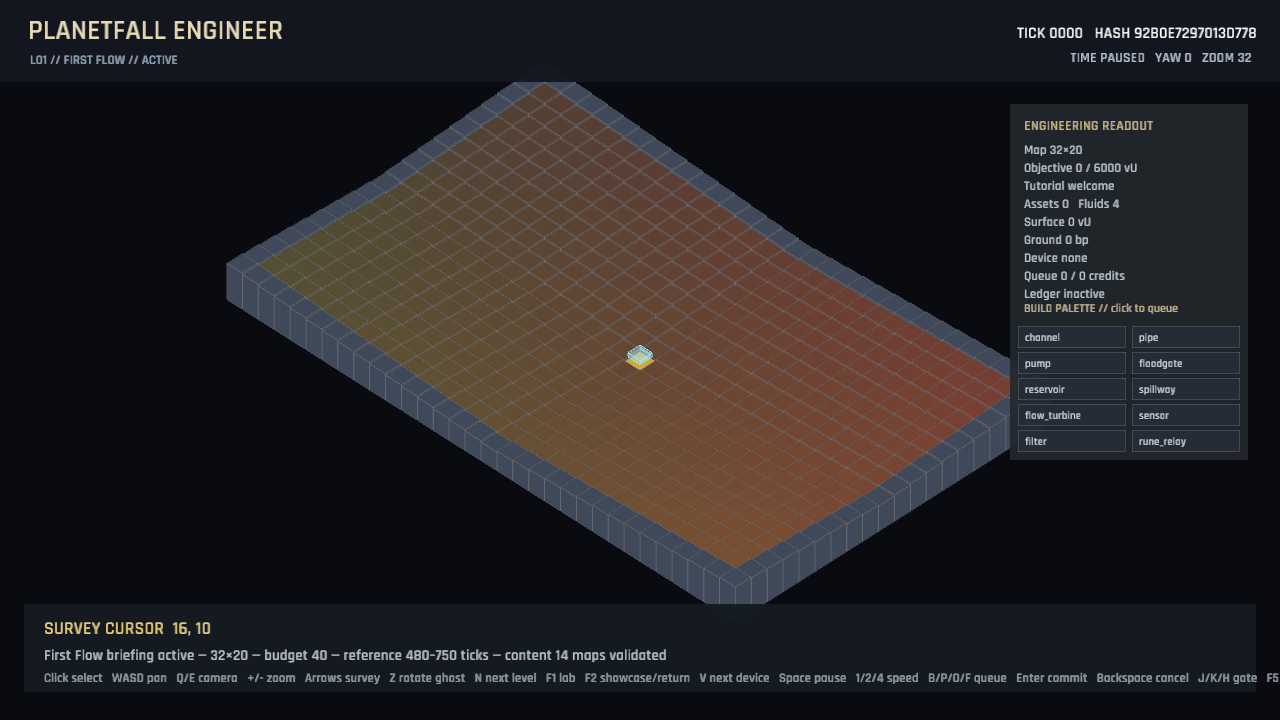
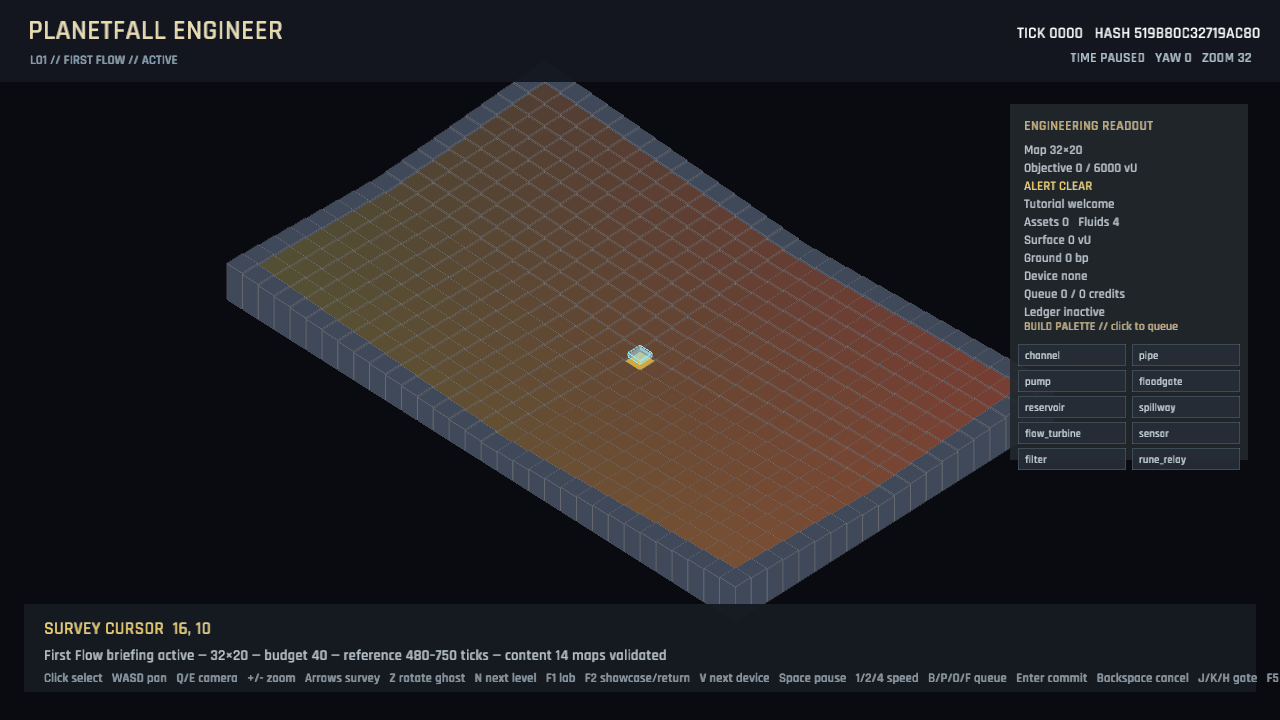
The forecast speaks before the danger reaches the surveyor (alert levels)
Mission state now escalates through clear, advisory, warning, and critical conditions from deterministic authored risk and forecast ticks. The HUD labels the level as text, the escalation test proves it precedes failure, and the refreshed gameplay capture keeps the readout and build palette legible.

Changed region(s): [[0.7812, 0.2444, 0.9688, 0.6722], [0.875, 0.0306, 1.0, 0.0611]]

diff --git a/src/mission.rs b/src/mission.rs
@@ -45,6 +45,25 @@ pub enum MissionPhase {
 }
 
 #[derive(Debug, Clone, Copy, PartialEq, Eq, Serialize, Deserialize)]
+pub enum AlertLevel {
+    Clear,
+    Advisory,
+    Warning,
+    Critical,
+}
+
+impl AlertLevel {
+    pub const fn name(self) -> &'static str {
+        match self {
+            Self::Clear => "CLEAR",
+            Self::Advisory => "ADVISORY",
+            Self::Warning => "WARNING",
+            Self::Critical => "CRITICAL",
+        }
+    }
+}
+
+#[derive(Debug, Clone, Copy, PartialEq, Eq, Serialize, Deserialize)]
 pub enum CommandKind {
     Camera,
     Select,
@@ -145,6 +164,12 @@ pub struct MissionState {
     pub checkpoint_tick: u64,
     #[serde(default)]
     pub failure_ticks: u32,
+    #[serde(default = "default_alert_level")]
+    pub alert_level: AlertLevel,
+}
+
+const fn default_alert_level() -> AlertLevel {
+    AlertLevel::Clear
 }
 
 impl MissionState {
@@ -165,6 +190,7 @@ impl MissionState {
             tutorial: (id == MissionId::L01FirstFlow).then(TutorialState::l01),
             checkpoint_tick: 0,
             failure_ticks: 0,
+            alert_level: AlertLevel::Clear,
         }
     }
     pub fn start(&mut self) {
@@ -253,6 +279,17 @@ impl MissionState {
             self.failure_ticks.saturating_add(1)
         } else {
             0
+        };
+        self.alert_level = match self.id {
+            MissionId::L01FirstFlow if hazard_active => AlertLevel::Critical,
+            MissionId::L01FirstFlow if self.objective_progress > 0 => AlertLevel::Advisory,
+            MissionId::L02HoldingLine if hazard_active => AlertLevel::Critical,
+            MissionId::L02HoldingLine if self.tick >= 800 => AlertLevel::Warning,
+            MissionId::L02HoldingLine if self.tick >= 600 => AlertLevel::Advisory,
+            MissionId::L03Firebreak if hazard_active => AlertLevel::Critical,
+            MissionId::L03Firebreak if formed_rock > 0 => AlertLevel::Warning,
+            MissionId::L03Firebreak if self.tick >= 700 => AlertLevel::Advisory,
+            _ => AlertLevel::Clear,
         };
         let failure_limit = if self.id == MissionId::L01FirstFlow {
             10
@@ -545,6 +582,22 @@ mod tests {
             mission.failure_reason.as_deref(),
             Some("protected beacon flooded")
         );
+    }
+    #[test]
+    fn authored_alert_levels_escalate_before_failure() {
+        let mut mission = MissionState::new(MissionId::L02HoldingLine);
+        mission.start();
+        let mut world = SimulationWorld::new(40, 24);
+        world.tick = 600;
+        mission.on_tick(&world);
+        assert_eq!(mission.alert_level, AlertLevel::Advisory);
+        world.tick = 800;
+        mission.on_tick(&world);
+        assert_eq!(mission.alert_level, AlertLevel::Warning);
+        let camp = crate::state::CellPos { x: 26, y: 16 };
+        world.inject(camp, FluidId::Water, 1_500);
+        mission.on_tick(&world);
+        assert_eq!(mission.alert_level, AlertLevel::Critical);
     }
     #[test]
     fn completion_unlocks_next_campaign_level_and_keeps_best_time() {

diff --git a/src/ui.rs b/src/ui.rs
@@ -162,9 +162,23 @@ pub fn draw_hud(ctx: UiContext<'_>) {
         });
     draw_ui_text_ex(&objective, 1024.0, 172.0, style.params());
     draw_ui_text_ex(
-        &format!("Tutorial {}", tutorial),
+        &format!("ALERT {}", ctx.session.mission.alert_level.name()),
         1024.0,
         190.0,
+        TextStyle::new(
+            13.0,
+            if ctx.session.mission.alert_level == crate::mission::AlertLevel::Critical {
+                Color::new(0.95, 0.45, 0.38, 1.0)
+            } else {
+                Color::new(0.95, 0.8, 0.35, 1.0)
+            },
+        )
+        .params(),
+    );
+    draw_ui_text_ex(
+        &format!("Tutorial {}", tutorial),
+        1024.0,
+        208.0,
         style.params(),
     );
     draw_ui_text_ex(
@@ -174,22 +188,22 @@ pub fn draw_hud(ctx: UiContext<'_>) {
             FluidId::ALL.len()
         ),
         1024.0,
-        208.0,
+        226.0,
         style.params(),
     );
     draw_ui_text_ex(
         &format!("Surface {} vU", selected.surface_volume()),
         1024.0,
-        226.0,
+        244.0,
         style.params(),
     );
     draw_ui_text_ex(
         &format!("Ground {} bp", selected.ground_contamination_bp),
         1024.0,
-        244.0,
+        262.0,
         style.params(),
     );
-    draw_ui_text_ex(&device_readout, 1024.0, 262.0, style.params());
+    draw_ui_text_ex(&device_readout, 1024.0, 280.0, style.params());
     draw_ui_text_ex(
         &format!(
             "Queue {} / {} credits",
@@ -197,7 +211,7 @@ pub fn draw_hud(ctx: UiContext<'_>) {
             ctx.session.simulation.devices.reserved_budget
         ),
         1024.0,
-        280.0,
+        298.0,
         style.params(),
     );
     let verification_status = ctx
@@ -218,18 +232,18 @@ pub fn draw_hud(ctx: UiContext<'_>) {
             )
         })
         .unwrap_or_else(|| "Ledger inactive".into());
-    draw_ui_text_ex(&verification_status, 1024.0, 298.0, style.params());
+    draw_ui_text_ex(&verification_status, 1024.0, 316.0, style.params());
     draw_ui_text_ex(
         "BUILD PALETTE // click to queue",
         1024.0,
-        312.0,
+        330.0,
         TextStyle::new(12.0, Color::new(0.8, 0.68, 0.4, 1.0)).params(),
     );
     for (index, device) in crate::devices::DeviceId::ALL.into_iter().enumerate() {
         let column = index % 2;
         let row = index / 2;
         let x = 1018.0 + column as f32 * 114.0;
-        let y = 326.0 + row as f32 * 26.0;
+        let y = 344.0 + row as f32 * 26.0;
         draw_rectangle(x, y, 108.0, 22.0, Color::new(0.10, 0.13, 0.17, 0.95));
         draw_rectangle_lines(x, y, 108.0, 22.0, 1.0, Color::new(0.28, 0.38, 0.44, 0.9));
         draw_ui_text_ex(

diff --git a/docs/09_QUALITY_GATES.md b/docs/09_QUALITY_GATES.md
@@ -97,6 +97,10 @@ At every size:
 - reduced-motion mode has no required information only in animation;
 - water/lava/slurry/steam and alert levels have non-color distinctions.
 
+Mission alert state is authoritative and text-labeled at four levels: clear,
+advisory, warning, and critical. Hazard failure timers remain separate from
+the display level, so a warning can be inspected before a terminal failure.
+
 Captures live under `docs/verification/` with stable names
 `<map_or_screen>_<width>x<height>.png`. `catalog_thumbnail.png` at repository
 root MUST be a current title-screen capture before release publishing.

diff --git a/README.md b/README.md
@@ -123,6 +123,9 @@ viewport-aware screen rays and AABB hits.
 The live HUD now identifies the authored campaign level and mission phase and
 shows objective progress plus the current tutorial step alongside the selected
 cell and device readout.
+It also names the deterministic alert level (`CLEAR`, `ADVISORY`, `WARNING`,
+or `CRITICAL`) so forecast pressure and hazard escalation are readable without
+depending on color alone.
 
 Terminal success and failure now open a readable debrief/recovery panel with
 the objective result, failure reason when present, and the valid next action.
